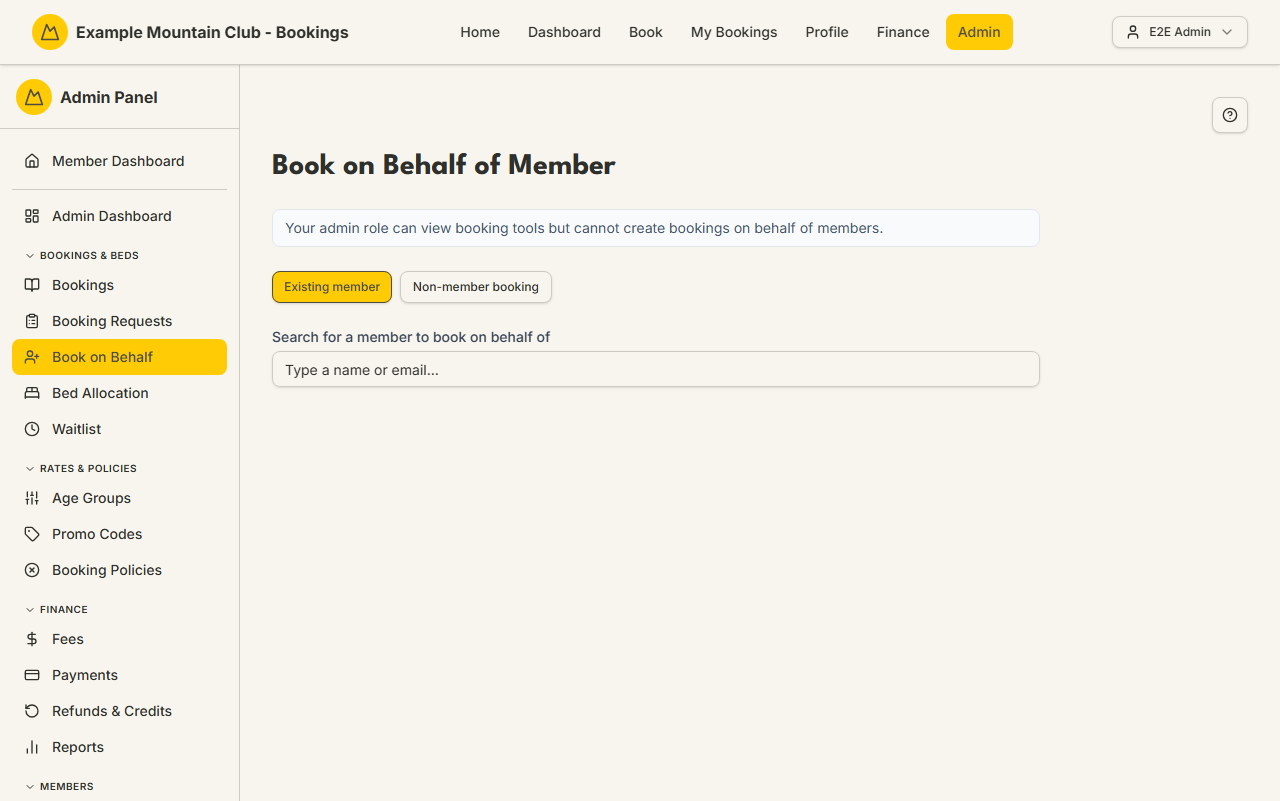
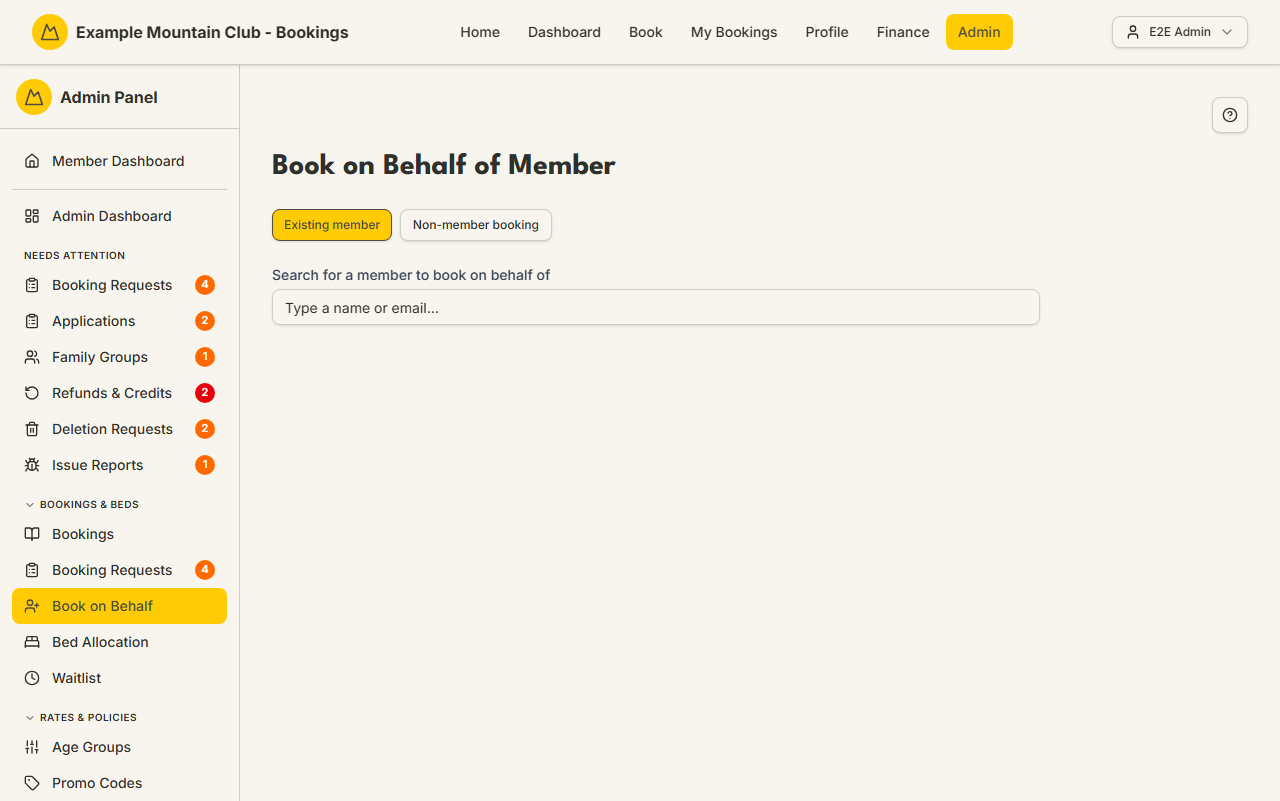
fix(docs): batch-1 review round — session-settle capture fix + style-guide norms (#2050)
- harness: arm a bounded /api/auth/session waiter before navigation so
  authenticated captures never show the false pre-hydration view-only state
  (batch-1 accuracy finding on admin-book.png); admin-book re-captured showing
  the operational create flow
- style guide: codify the three batch-review norms (capture-only-your-batch,
  screenshot density per route/tab, canonical guide opening line) and document
  the session-settle behaviour

diff --git a/e2e/tools/capture-screenshots.ts b/e2e/tools/capture-screenshots.ts
@@ -129,10 +129,25 @@ function printManifest(captures: Capture[]): void {
 async function shoot(context: BrowserContext, capture: Capture): Promise<void> {
   const page = await context.newPage();
   try {
+    // Authenticated pages gate edit affordances on the CLIENT session hook
+    // (useAdminAreaEditAccess -> useSession), which reports view-only until the
+    // post-hydration /api/auth/session fetch resolves. A shot taken in that
+    // window captures a false "view only" banner with disabled controls
+    // (#2050 batch-1 review finding on admin-book). Arm the waiter BEFORE
+    // navigation so the response cannot slip past us, and bound it so an
+    // unauthenticated page (which never fetches the session) cannot stall.
+    const sessionSettled =
+      capture.auth === false
+        ? Promise.resolve()
+        : page
+            .waitForResponse((r) => r.url().includes("/api/auth/session"), { timeout: 10_000 })
+            .then(() => undefined)
+            .catch(() => undefined);
     // Wait for the document 'load' event (deterministic), not "networkidle":
     // networkidle can hang or resolve arbitrarily on pages with long-poll /
     // streaming / analytics requests. Give it an explicit navigation timeout.
     await page.goto(new URL(capture.route, BASE_URL).toString(), { waitUntil: "load", timeout: 30_000 });
+    await sessionSettled;
     // Settle: let web fonts finish so text is not captured in a fallback face,
     // bounded by an explicit timeout so a stuck font load cannot block a shot.
     await Promise.race([

diff --git a/docs/STYLE_GUIDE.md b/docs/STYLE_GUIDE.md
@@ -121,6 +121,31 @@ re-creatable.
 - **Privacy:** capture only against the demo/seeded data set. Never commit a
   screenshot containing real member, payment, or accounting data
   (`CONTRIBUTING.md`).
+- **Capture only what your change documents:** run the harness with explicit
+  capture names (`npx tsx e2e/tools/capture-screenshots.ts <name...>`), never
+  the whole manifest — a full run commits images for pages other batches/PRs
+  own, stranding orphan PNGs that their real PR then has to re-refresh.
+- **Screenshot density:** one screenshot per capturable distinct route or tab
+  (a guide covering six sub-pages embeds six captures). Client-side wizard or
+  dialog sub-steps the URL-driven harness cannot reach are described in prose —
+  they need no screenshot. Do not ship a single landing shot for a
+  multi-screen area.
+- **Session settle:** authenticated admin pages gate edit affordances on the
+  client session hook, which reports view-only until the post-hydration session
+  fetch resolves; the harness waits for that fetch before shooting so captures
+  never show the false pre-hydration "view only" state. If you add a new kind
+  of late-settling UI, extend the harness settle logic generically — never
+  paper over it per-capture.
+
+## Guide opening line (canonical)
+
+The "What it is" section opens with the canonical location line:
+
+> Find it at **Admin → <nav path>** (`/admin/<route>`).
+
+Invert to route-first ONLY when the page genuinely has no direct sidebar
+entry — and then say explicitly how it is reached (hub card, parent page
+link). Do not copy a justified exception as the template.
 
 ## Linking rules
 